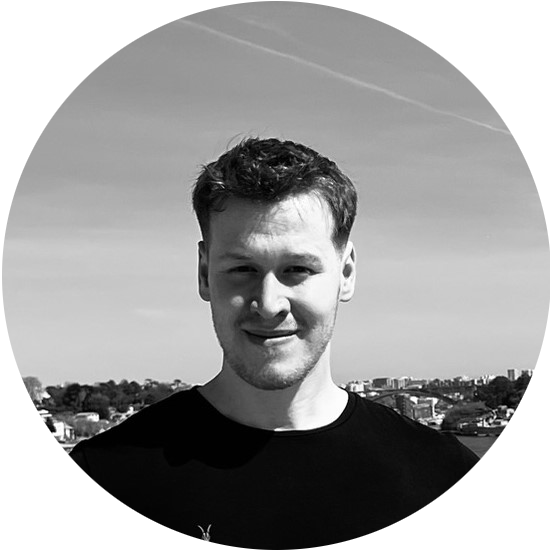
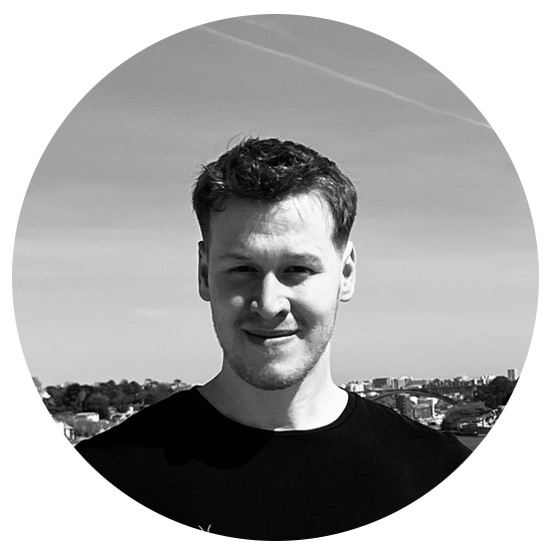
Update about.md

Changed region(s): [[0.0, 0.0, 1.0, 1.0]]

diff --git a/_tabs/about.md b/_tabs/about.md
@@ -6,20 +6,18 @@ order: 4
 ####  About Me
 {: data-toc-skip='' .mt-4 }
 
+![Desktop View](/assets/images/pages/about/about_me.png){: width="300 height="300" }
+
 Hi, I’m Tom, and I am currently working as Cyber Security Engineer in the Finance Technology sector. I am passionate about technology and am dedicated to crafting innovative solutions that make a difference. In security, being told “anything can be hacked” had peaked my curiosity when it comes to hack types, tools, systems, as well as how the risks can be mitigated, I hope to make a difference in this space.
 
 Since a young age I have been fascinated by computers. I worked at a paper-round which helped me to be able to afford my first computer, in which contained an AMD Athlon X4 and XFX 7770. This allowed me to explore hardware and software, to which mostly led to playing around with things, breaking and fixing things.
 
 This interest directed my career into the technology, studying foundation diploma in IT at college, networking apprenticeship, to IT and security engineering roles. Technology always developes quickly, so there is a continuous state of learning in the space, I hope to share and build knowledge platform with other.
 
-![Desktop View](/assets/images/pages/about/about_me.png){: width="700" height="400" }
-
 ####  About This Site 
 {: data-toc-skip='' .mt-4 }
 
 This platform is used to share knowledge and documents of security developments, home lab solutions, scripting, and more. If you have any interests in my posts or want to share your own experiences, you can write a comment using your GitHub account. It will be a place to collaborate on projects that can be used and developed on by anyone. You are always welcome to explore my site, if you have any feedback or suggestions, you can leave a comment under a post or contact via my email. 
-![Desktop View](/assets/images/pages/about/about_this_site.jpg){: width="700" height="400" }
-
 
 ####  Current Home Lab
 {: data-toc-skip='' .mt-4 }
@@ -30,11 +28,11 @@ Setup is a hosted environment on Proxmox Virtual Environment (Unix-based). Used 
 ####  Current Project
 {: data-toc-skip='' .mt-4 }
 
-I was diagnosed with type-1 diabetes at the age of 3, this means that I have to always keep on top of my glucose level. Technology has improved throughout the years with the latest Abott FreeSytle Libre, allowing accurate, continuous and fast readings. It uses API to share information with other applications such as LibreLinkUp and LibreView. I will be using the API to build upon my own application, that will allow me to view my glucose level from an alternative device, that is not my phone, using LibreLinkUp API Client documented by DiaKEM. More information can be found here.
-![Desktop View](/assets/images/pages/about/current_project.JPEG){: width="700" height="400" } 
+I was diagnosed with type-1 diabetes at the age of 3, this means that I have to always keep on top of my glucose level. Technology has improved throughout the years with the latest Abott FreeSytle Libre, allowing accurate, continuous and fast readings. It uses API to share information with other applications such as LibreLinkUp and LibreView. I will be using the API to build upon my own application, that will allow me to view my glucose level from an alternative device, that is not my phone, using LibreLinkUp API Client documented by DiaKEM. More information can be found [here.](https://tanderson.net/posts/LibreLink-Tracker-Project/)
+![Desktop View](/assets/images/pages/about/current_project.png){: width="700" height="400" } 
 
 ####  Previous Project
 {: data-toc-skip='' .mt-4 }
 
-I love playing older games especially the Mario Kart series. However, the consoles which were used to play them are not very reliable and expensive to replace. This solution will only require a single console and should be more reliable than the tradition consoles. RetroFlag produce a range of different controllers and shell game consoles that allow for Raspberry Pi computers to be added to create an emulator console using an operating system like RetroPie. More information can be found here.
-![Desktop View](/assets/images/pages/about/previous_project.JPEG){: width="700" height="400" } 
+I love playing older games especially the Mario Kart series. However, the consoles which were used to play them are not very reliable and expensive to replace. This solution will only require a single console and should be more reliable than the tradition consoles. RetroFlag produce a range of different controllers and shell game consoles that allow for Raspberry Pi computers to be added to create an emulator console using an operating system like RetroPie. More information can be found [here.](https://tanderson.net/posts/Retro-Pi-Project/)
+![Desktop View](/assets/images/pages/about/previous_project.png){: width="700" height="400" } 
